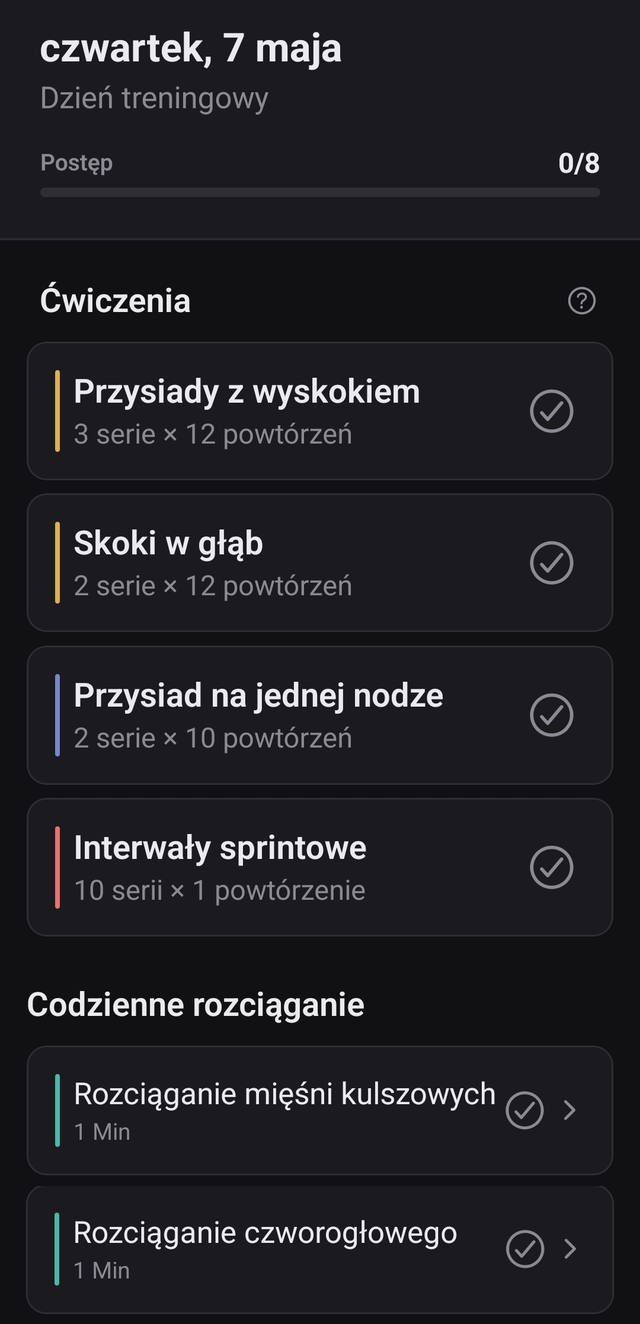
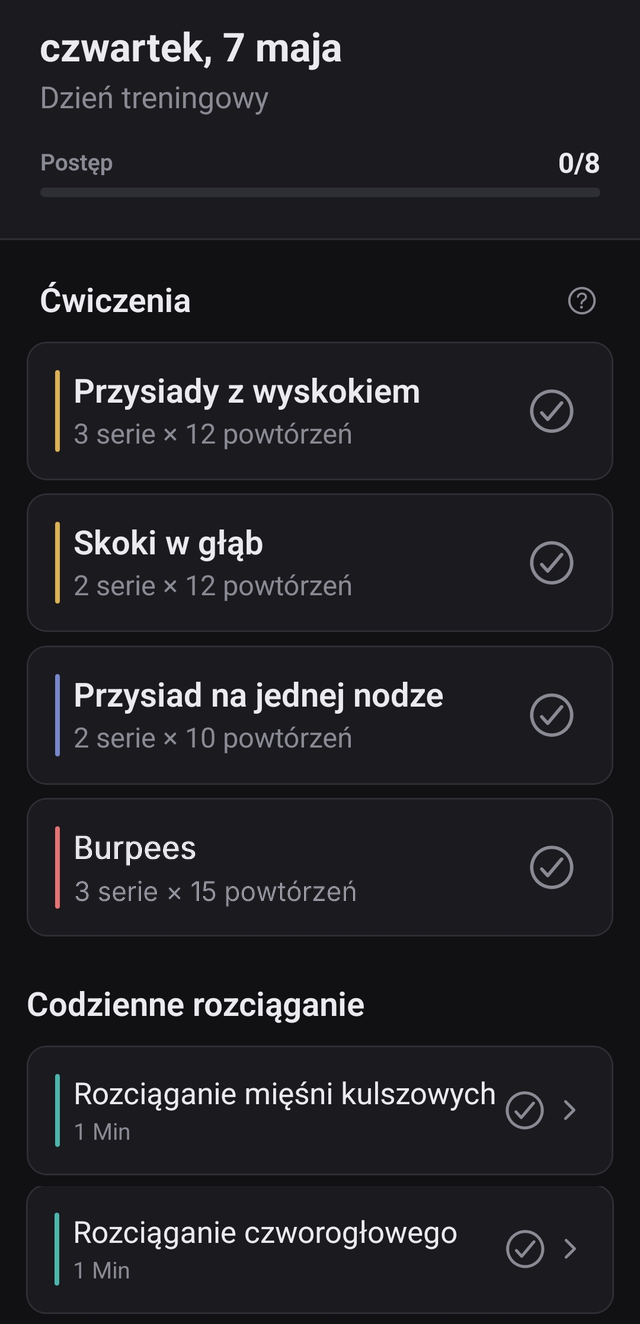
Reposition the site around football fitness, not drills
The store listing moved to fitness-first in July but the website never
followed, so the page still sold "drills" - the exact expectation behind
the churned-trial reply that expected skill work and got conditioning.

Copy:
- Hero is now "Every position / trains differently." in both locales, and
  the subtitle names the category outright: football fitness, home or gym.
- Swept the EN vocabulary to match what the app actually ships: workouts
  and exercises, not drills. PL already read this way.
- Meta title and description lead with fitness for the position.
- Fixed two contradictions: 50+ vs 80+ countries, and "15 minutes a day"
  against the FAQ answer of 25-45 minutes. Both locales.
- The OG share card hardcoded the retired headline outside the
  dictionaries, so every shared link still showed the old one.

Layout:
- Added the closing CTA section that the May restructure left pending.

Screenshots:
- Hero leads with the day detail. It was the position screen, whose lower
  half is Pro Tips - passing, dribbling, finishing - so the largest image
  above the fold was advertising skill coaching. Features takes the
  position screen instead.
- Retouched the day detail's cardio row from sprint intervals to burpees,
  a home-friendly move that matches fwd_burpees at 3 sets x 15 reps.

Changed region(s): [[0.125, 0.6193, 0.5625, 0.6813]]

diff --git a/components/home/FinalCta.tsx b/components/home/FinalCta.tsx
@@ -1,0 +1,35 @@
+import type { Dictionary } from "@/app/[locale]/dictionaries";
+import { DownloadBadges } from "../DownloadBadges";
+import { Reveal } from "../animations/Reveal";
+
+interface Props {
+  dict: Dictionary;
+}
+
+export function FinalCta({ dict }: Props) {
+  const t = dict.finalCta;
+
+  return (
+    <section className="py-16 lg:py-24">
+      <div className="mx-auto max-w-6xl px-5 lg:px-8">
+        <Reveal>
+          <div className="relative overflow-hidden rounded-3xl border border-white/10 p-10 lg:p-16 text-center bg-gradient-to-br from-[#10121a] via-[#0f1118] to-[#0a0a0e]">
+            <div
+              className="absolute -top-24 left-1/2 -translate-x-1/2 h-72 w-72 rounded-full blur-3xl opacity-40 pointer-events-none"
+              style={{ background: "radial-gradient(closest-side, rgba(var(--primary-rgb),0.4), transparent)" }}
+              aria-hidden="true"
+            />
+            <div className="relative flex flex-col items-center">
+              <h2 className="text-3xl sm:text-4xl lg:text-5xl font-bold tracking-tight">
+                {t.title}
+              </h2>
+              <p className="mt-4 max-w-xl text-white/70 leading-relaxed">{t.body}</p>
+              <DownloadBadges labels={dict.common} size="lg" className="mt-9 justify-center" />
+              <p className="mt-5 text-sm text-white/50">{t.note}</p>
+            </div>
+          </div>
+        </Reveal>
+      </div>
+    </section>
+  );
+}

diff --git a/components/home/Features.tsx b/components/home/Features.tsx
@@ -11,7 +11,7 @@ interface Props {
 }
 
 export function Features({ dict, locale }: Props) {
-  const dayDetailScreenshot = locale === "pl" ? "/screenshots/day-detail-v2-pl.png" : "/screenshots/day-detail-v2.png";
+  const positionScreenshot = locale === "pl" ? "/screenshots/position-v2-pl.png" : "/screenshots/position-v2.png";
   return (
     <section className="py-24 lg:py-32">
       <div className="mx-auto max-w-7xl px-5 lg:px-8">
@@ -27,7 +27,7 @@ export function Features({ dict, locale }: Props) {
                 <PhoneFrame variant="primary">
                   <div className="absolute inset-0 bg-[#111113]">
                     <Image
-                      src={dayDetailScreenshot}
+                      src={positionScreenshot}
                       alt={dict.common.screenshotAlt}
                       fill
                       sizes="(min-width: 768px) 320px, (min-width: 640px) 300px, 280px"

diff --git a/app/[locale]/opengraph-image.tsx b/app/[locale]/opengraph-image.tsx
@@ -4,18 +4,18 @@ import { join } from "node:path";
 import { isLocale } from "@/lib/locales";
 import { BRAND } from "@/lib/brand";
 
-export const alt = "Drillr - football training that knows your position";
+export const alt = "Drillr - football fitness built for the position you play";
 export const size = { width: 1200, height: 630 };
 export const contentType = "image/png";
 
 const COPY = {
   en: {
-    headline: "Stop playing.\nStart dominating.",
-    sub: "Football training that knows your position.",
+    headline: "Every position\ntrains differently.",
+    sub: "Football fitness for the position you play. Home or gym.",
   },
   pl: {
-    headline: "Przestań tylko grać.\nZacznij dominować.",
-    sub: "Trening piłkarski pod twoją pozycję.",
+    headline: "Każda pozycja\ntrenuje inaczej.",
+    sub: "Trening pod twoją pozycję. W domu albo na siłowni.",
   },
 } as const;
 

diff --git a/components/home/Hero.tsx b/components/home/Hero.tsx
@@ -13,7 +13,7 @@ interface Props {
 }
 
 export function Hero({ dict, locale, rating }: Props) {
-  const positionScreenshot = locale === "pl" ? "/screenshots/position-v2-pl.png" : "/screenshots/position-v2.png";
+  const dayDetailScreenshot = locale === "pl" ? "/screenshots/day-detail-v2-pl.png" : "/screenshots/day-detail-v2.png";
   return (
     <section className="relative overflow-hidden">
       <HeroAurora />
@@ -75,7 +75,7 @@ export function Hero({ dict, locale, rating }: Props) {
             <PhoneFrame variant="primary">
               <div className="absolute inset-0 bg-[#111113]">
                 <Image
-                  src={positionScreenshot}
+                  src={dayDetailScreenshot}
                   alt={dict.common.screenshotAlt}
                   fill
                   priority

diff --git a/app/[locale]/page.tsx b/app/[locale]/page.tsx
@@ -13,6 +13,7 @@ import { Features } from "@/components/home/Features";
 import { Testimonials } from "@/components/home/Testimonials";
 import { Faq } from "@/components/home/Faq";
 import { CoachesCta } from "@/components/home/CoachesCta";
+import { FinalCta } from "@/components/home/FinalCta";
 import { ScrollScene } from "@/components/animations/ScrollScene";
 
 export async function generateMetadata({
@@ -63,6 +64,9 @@ export default async function HomePage({ params }: PageProps<"/[locale]">) {
           <CoachesCta dict={dict} />
         </ScrollScene>
       )}
+      <ScrollScene>
+        <FinalCta dict={dict} />
+      </ScrollScene>
     </>
   );
 }
